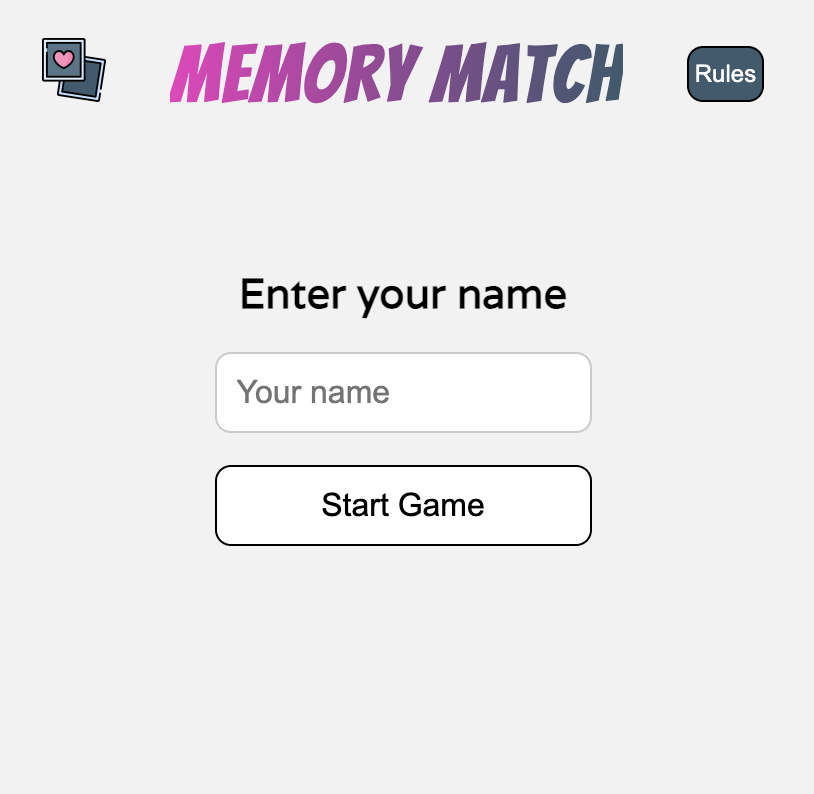
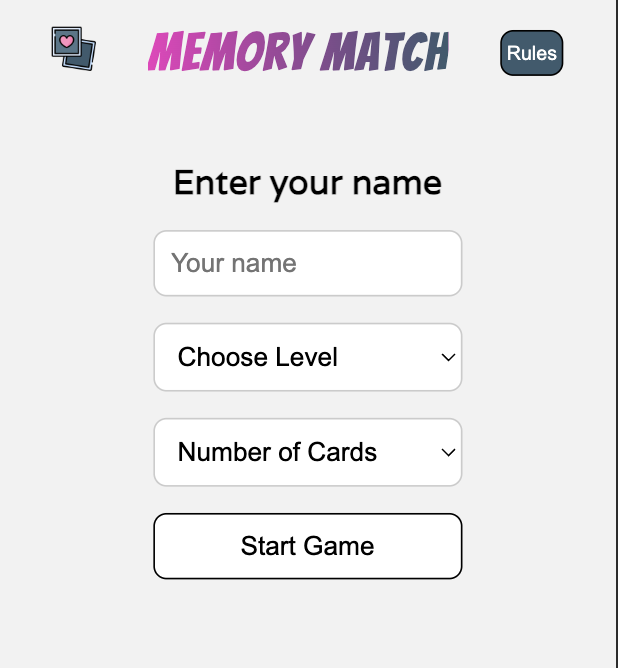
Update Game Board and Score board section in README

diff --git a/README.md b/README.md
@@ -287,113 +287,68 @@ Modals are managed with CSS and JavaScript: a hidden class toggles visibility an
 
 ### Gameboard
 The gameboard is the main interactive area where the memory match game takes place. 
-It consists of a grid of 12 cards that players can flip to reveal hidden images.
+Depending on ammont of cards chosen it consists of a grid of 12, 16 or 20 cards.
 
 #### Layout:
-The board is implemented as a CSS grid, initially 4×4 cards and is centered on the screen across all devices. 
+The board is implemented as a CSS grid and is centered on the screen. Depending om screen size the grid takes up 3-4 columns and/or 3-5 rows. 
 
-<div style="display: flex; flex-direction: row; gap: 10px; align-items: flex-start;"> 
-    <img src="/assets/documentation/game-board-mobile.png" width="300">
-    <img src="/assets/documentation/game-board-desktop.png" width="350">
-</div>
+- Gameboard mobile:
+
+| 12 Cards                                                         | 16 Cards                                                         | 20 Cards                                                         |
+| ---------------------------------------------------------------- | ---------------------------------------------------------------- | ---------------------------------------------------------------- |
+| <img src="/assets/documentation/grid-12-mobile.png" width="300"> | <img src="/assets/documentation/grid-16-mobile.png" width="300"> | <img src="/assets/documentation/grid-20-mobile.png" width="300"> |
+
+- Gameboard desktop: 
+
+| 12 Cards                                                          | 16 Cards                                                          | 20 Cards                                                          |
+| ----------------------------------------------------------------- | ----------------------------------------------------------------- | ----------------------------------------------------------------- |
+| <img src="/assets/documentation/grid-12-desktop.png" width="300"> | <img src="/assets/documentation/grid-16-desktop.png" width="300"> | <img src="/assets/documentation/grid-20-desktop.png" width="300"> |
+
 
 #### Fetching Card-content (Icons)
 The icons were chosen from the [flaticon library](https://www.flaticon.com/) and stored in a local JSON file. 
-When the game starts, they are loaded using a fetch request, which returns a Promise. The code checks the response for errors before parsing it as JSON, and any errors are caught to display a message to the user. I chose a Promise-based fetch instead of async/await because the file is small and local, making this approach simple. However the async/await could also be used to make the execution order even clearer. 
+When the game starts, they are loaded using a fetch request, which returns a Promise. The code checks the response for errors before parsing it as JSON, and any errors are caught to display a message to the user. Promise-based fetch was chosen instead of async/await because the file is small and local, making this approach simple. However the async/await could also be used to make the execution order even clearer. 
 
 #### Shuffling Logic
-To create a fair and unpredictable game, the card deck is shuffled using a multi-step approach.
+To create a fair and unpredictable game, the card deck is shuffled in multiple steps.
 
-1. First, the original array of cards is duplicated to create pairs, ensuring that each card has exactly one matching counterpart. 
-
-	`const halfA = [...cardArray]; `<br>`
- 	const halfB = [...cardArray];`
-
-2. These two arrays are then shuffled independently using the Fisher–Yates algorithm, which provides an efficient and unbiased randomization.
-
-	`for (let i = arr.length - 1; i > 0; i--) { `<br>`
-	const j = Math.floor(Math.random() * (i + 1)); `<br>`
-	[arr[i], arr[j]] = [arr[j], arr[i]];
-	}`
-
+1. The original card array is duplicated to form pairs.
+2. These two arrays are then shuffled independently using the Fisher–Yates algorithm.
 3. After shuffling, the two halves are interleaved into a single deck. 
+4. Additional random swaps are performed to prevent predictable patterns. This reduces the likelihood of matching cards being placed directly next to each other.
 
-	`if (Math.random() < 0.5) { `<br>`
-  shuffledDeck.push(halfA[i], halfB[i]);`<br>`
-	} else {`<br>>
-  	shuffledDeck.push(halfB[i], halfA[i]);
-	}`
+The purpose of this is to keep the deck random and well-balanced for a fun game.
 
-4. To further improve randomness and avoid predictable patterns, an additional step performs random swaps across the deck. This reduces the likelihood of matching cards being placed directly next to each other.
+#### Rendering Cards & card flipping
+Once the card data has been fetched and shuffled, the game board is dynamically generated.
 
-	`if (
-  	shuffledDeck[i] !== shuffledDeck[j] && `<br>`
-  	shuffledDeck[i] !== shuffledDeck[j-1] && `<br>`
-  	shuffledDeck[j] !== shuffledDeck[i+1]`<br>`
-	) { `<br>`
-  	[shuffledDeck[i], shuffledDeck[j]] = [shuffledDeck[j], shuffledDeck[i]];
-	}`
-
-This layered approach ensures a balanced distribution of cards while maintaining a high level of randomness, resulting in a more engaging gameplay experience.
-
-#### Rendering Cards
-Once the card data has been fetched and shuffled, the game board is dynamically generated using JavaScript.
-
-- Each card is created as a set of nested DOM elements representing the front and back sides. 
-- The card’s identity is stored using a data attribute, making it easy to compare cards later in the game logic.
-- For every card in the shuffled array, a new card element is constructed and appended to the game board. 
-- An event listener is also attached to each card, allowing it to respond to user interaction by triggering the flip behavior.
-
-By generating the cards dynamically instead of hardcoding them in HTML, the game becomes more flexible and scalable, making it easier to update or expand in the future.
-
-#### Card Mechanics and card flipping
-Each card consists of two sides: a front and a back. The back displays a gradient design, while the front reveals the card’s icon. 
-This structure is implemented using nested elements and styled with CSS 3D transforms to create a smooth flip animation.
-
-Visual feedback plays an important role in guiding the user: 
-- Hovering over a card slightly scales it up to indicate interactivity, while clicking (or focusing) triggers the flip effect, revealing the card’s content.
+- The game board is dynamically generated after fetching and shuffling the card data.
+- Each card is a nested DOM element with front and back; the back shows a gradient, the front displays the icon.
+- Card identity is stored in a data attribute for easy comparison.
+- Hovering slightly scales the card to indicate interactivity; clicking or focusing flips it.
+- Flip behavior is handled by toggling a flipped class in JavaScript.
+- The system tracks the first and second selected cards.
+- A lockBoard mechanism prevents flipping more than two cards at once.
 
 <div align="center">
 <img src="/assets/documentation/flip-nomatch.png" width="400">
 </div>
 
-- The flip behavior is controlled through JavaScript by toggling a flipped class on the selected card. 
-- To maintain consistent game logic, the system keeps track of the first and second selected cards. 
-- A locking mechanism (lockBoard) is used to temporarily disable interaction while two cards are being evaluated, preventing the player from flipping more than two cards at once.
-
-This combination of visual feedback and controlled interaction ensures a smooth and intuitive gameplay experience.
-
 #### Matching Logic:
-Once two cards have been flipped, the game evaluates whether they form a matching pair.
-
-Each card stores its identity using a data-name attribute. 
-The comparison is handled in the checkMatch() function, where the values of the two selected cards are checked against each other.
-
-If the cards match, they remain flipped, and a visual indicator is applied by adding a matched class, changing their appearance (light green) to signal success. The match counter is also increased, bringing the player closer to completing the game.
+When two cards are flipped, their data-name attributes are compared in checkMatch().
+- No match: A miss is registered, the score decreases, and the cards flip back after a short delay; the board is locked during this time to prevent extra flips.
+- Match: Cards stay flipped, a matched class highlights them (light green), and the match counter increases.
 
 <div align="center">
 <img src="/assets/documentation/flip-match.png" width="400">
 </div>
 
-If the cards do not match, the game registers a miss. The score is reduced, and after a short delay, both cards are flipped back to their original state. During this delay, the board is temporarily locked to prevent additional interactions, ensuring that only two cards can be evaluated at a time.
-
-This logic creates a clear feedback loop for the player, reinforcing successful matches while maintaining challenge through penalties for incorrect guesses.
-
-#### Reset Logic
-After each turn, the game resets the selected card state to prepare for the next interaction. This is handled by the resetFlippedCards() function.
-
-Clears the references to the currently selected cards (firstCard and secondCard)
-Unlocks the board by resetting the lockBoard variable
-Ensures the player can continue interacting without unintended behavior
-
-By explicitly resetting the game state after each evaluation, the logic remains predictable and prevents errors such as comparing incorrect cards or blocking further input.
-
-#### Game End Condition
+#### Reset Logic & End Game Condition
+After each turn, the game resets the selected card state to prepare for the next interaction. 
 The game ends under two conditions:
 
-Win: All card pairs have been successfully matched
-Detected in checkMatch() when matches === cards.length
-Loss: The player runs out of points (score reaches zero)
+- Win: All card pairs have been successfully matched 
+- Loss: The player runs out of points (score reaches zero)
 
 In both cases, the endGame() function is triggered, which transitions the interface from the game board to the end screen.
 
@@ -405,41 +360,34 @@ It consists of three main variables:
 - misses – counts incorrect matches.
 - score – starts at 100 and decreases by 5 for each miss.
 
-Desktop: 
-<div align="center">
-<img src="/assets/documentation/scoreboard-desktop.png" width="400">
-</div>
+| Desktop                                                                                        | Mobile                                                                                        |
+| ---------------------------------------------------------------------------------------------- | --------------------------------------------------------------------------------------------- |
+| <div align="center"><img src="/assets/documentation/scoreboard-desktop.png" width="400"></div> | <div align="center"><img src="/assets/documentation/scoreboard-mobile.png" width="400"></div> |
 
-Mobile:
-<div align="center">
-<img src="/assets/documentation/scoreboard-mobile.png" width="400">
-</div>
 
-These variables are dynamically updated in the UI using the corresponding DOM elements (movesEl, missesEl, scoreEl). 
+These variables are dynamically updated in the UI using the corresponding DOM elements. 
 Every time a move is made or a miss occurs, the updateScoreUI() function is called to reflect the current state.
+The player earns 5+ points for each successful match.
 
 To enhance feedback, the score element changes color at certain thresholds:
 
 Moderate score (70–50):
 
 <div align="center">
-<img src="/assets/documentation/score-moderate.png" width="400">
+<img src="/assets/documentation/score-moderate.png" width="500">
 </div>
 
 Medium score (50–30)
 
 <div align="center">
-<img src="/assets/documentation/score-medium.png" width="400">
+<img src="/assets/documentation/score-medium.png" width="500">
 </div>
 
 Low score (<30)
 
 <div align="center">
-<img src="/assets/documentation/score-low.png" width="400">
+<img src="/assets/documentation/score-low.png" width="500">
 </div>
-
-This visual cue allows players to quickly assess their performance and motivates careful matching. 
-By combining numeric feedback with color indicators, the scoreboard creates an engaging and informative layer of game interaction.
 
 #### End Screen
 When the game ends, the interface transitions from the game board to a dedicated end screen, handled by the endGame() function.
